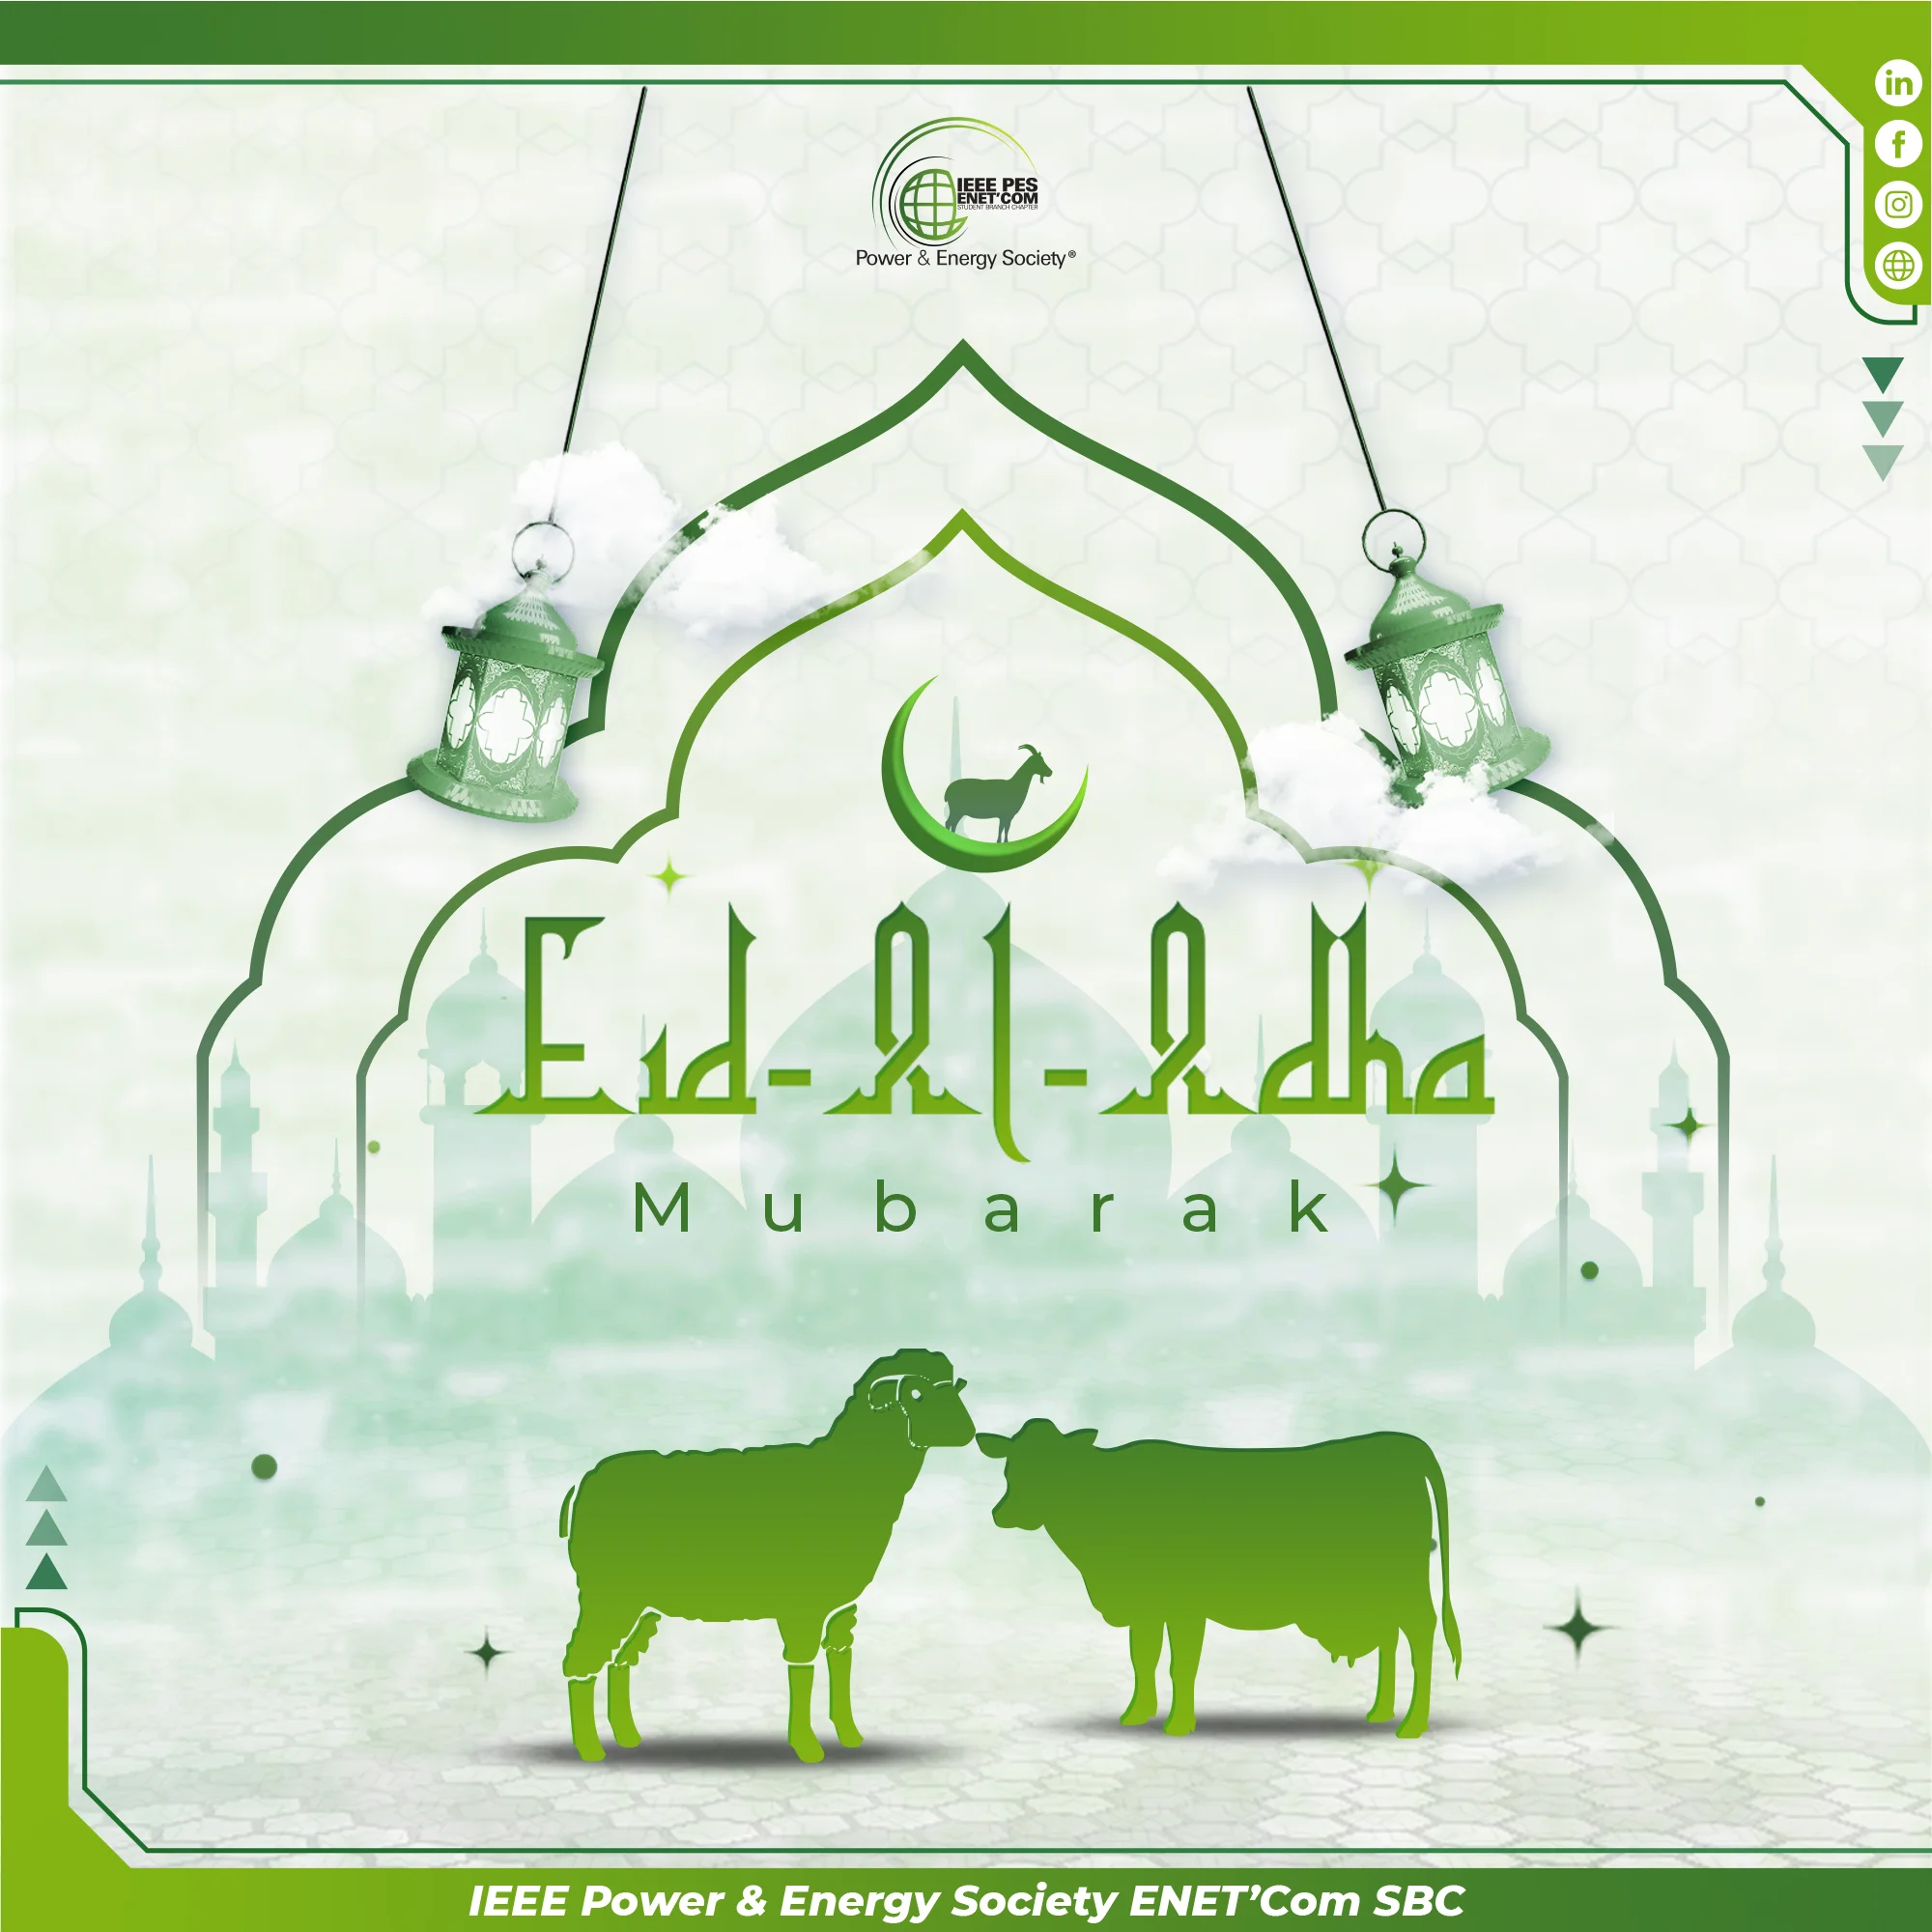
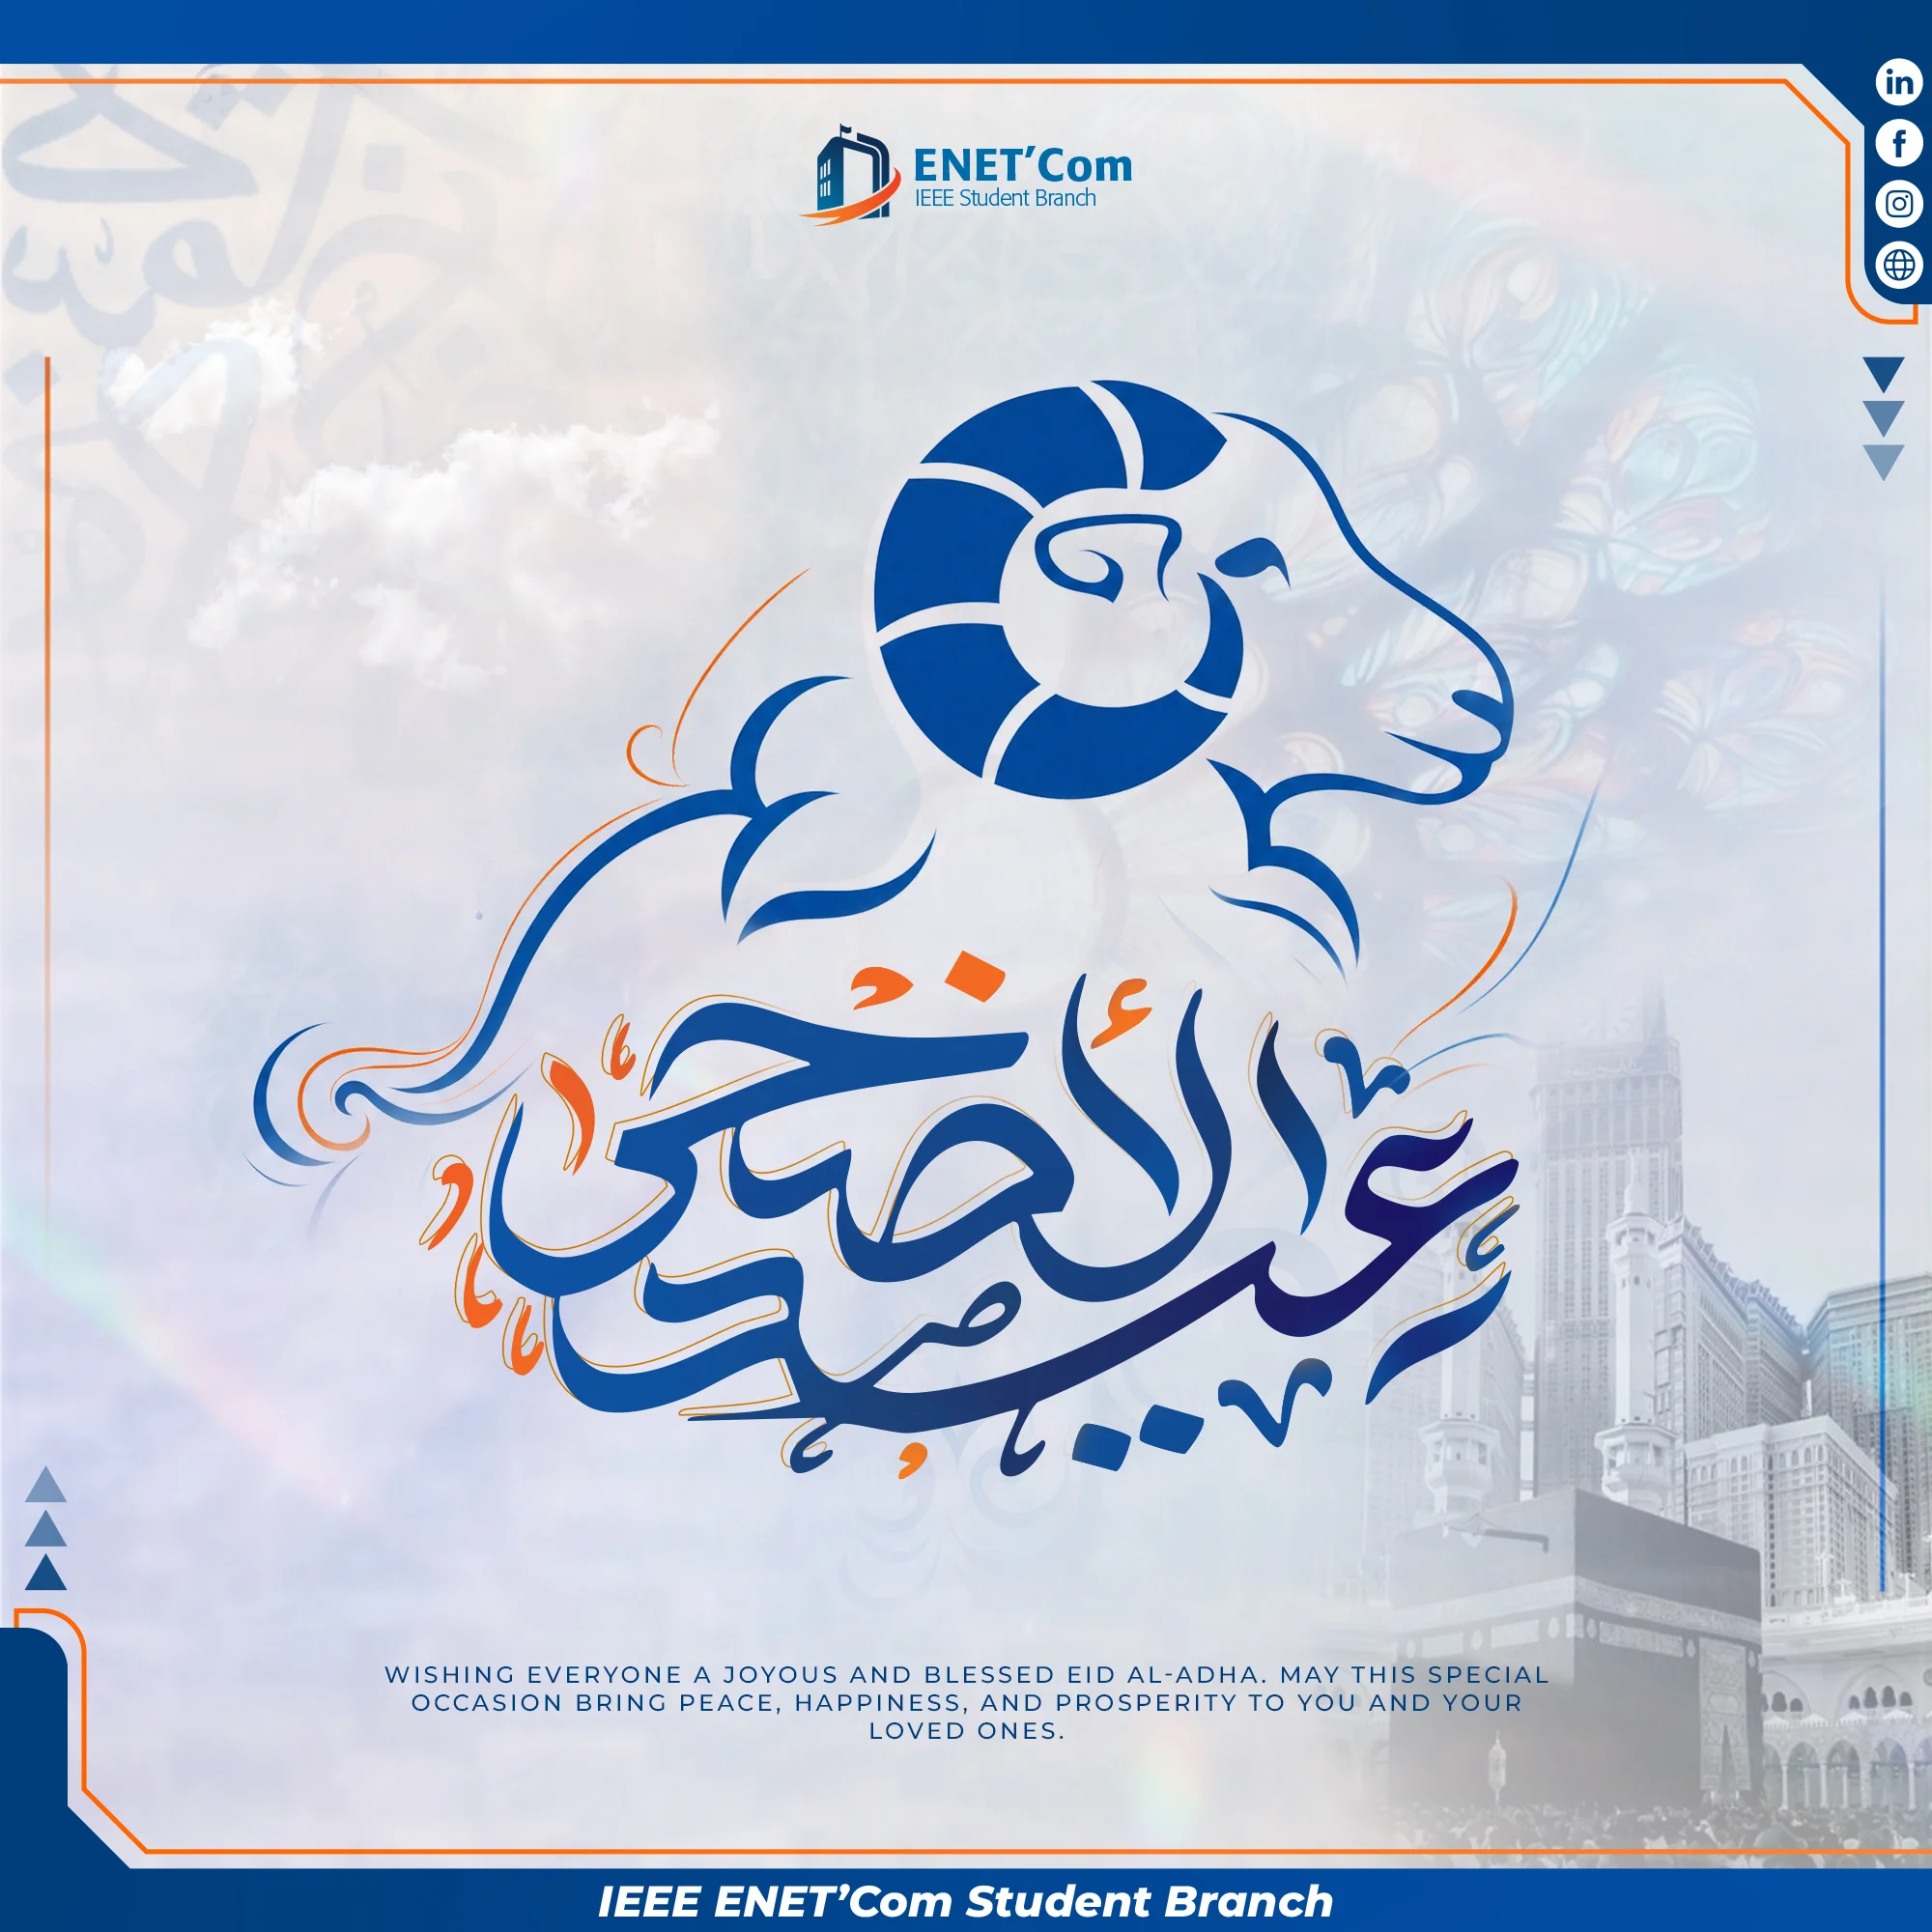
chore(artworks): update artworks page, convert new images to webp, remove deprecated entries

diff --git a/assets/js/data.js b/assets/js/data.js
@@ -273,45 +273,30 @@ const MAG_DATA = {
   ],
 
   artworks: [
+    { image: "assets/images/artworks/1st Session Benefits.webp", title: "1st Session Benefits", year: "IEEE IES Tunisia Section Chapter-PES" },
+    { image: "assets/images/artworks/2nd Session Benefits.webp", title: "2nd Session Benefits", year: "IEEE IES Tunisia Section Chapter-PES" },
     { image: "assets/images/artworks/1st post IES DAY.webp", title: "IES DAY 1st Post", year: "IEEE IES Tunisia Section Chapter-PES" },
-    { image: "assets/images/artworks/9-avril.webp", title: "Martyrs' Day", year: "IEEE ENETCOM SB" },
     { image: "assets/images/artworks/Achievement IES.webp", title: "IES Achievement", year: "IEEE IES Tunisia Section Chapter-PES" },
     { image: "assets/images/artworks/Achievement PES.webp", title: "PES Achievement", year: "IEEE IES Tunisia Section Chapter-PES" },
     { image: "assets/images/artworks/Arduino Workshop.webp", title: "Arduino Workshop", year: "IEEE IES Tunisia Section Chapter-PES" },
-    { image: "assets/images/artworks/Eid al Adhha.webp", title: "Eid al Adhha", year: "IEEE ENETCOM SB" },
-    { image: "assets/images/artworks/Eid fetr.webp", title: "Eid al Fitr", year: "IEEE ENETCOM SB" },
-    { image: "assets/images/artworks/HAPPY NEW YEAR.webp", title: "Happy New Year", year: "IEEE ENETCOM SB" },
+    { image: "assets/images/artworks/ElectrosparkPlanning.webp", title: "Electrospark Planning", year: "IEEE IES Tunisia Section Chapter-PES" },
     { image: "assets/images/artworks/Happy IES DAY.webp", title: "Happy IES Day", year: "IEEE IES Tunisia Section Chapter-PES" },
-    { image: "assets/images/artworks/PES BoardPromo.webp", title: "PES Board Promo", year: "IEEE IES Tunisia Section Chapter-PES" },
-    { image: "assets/images/artworks/In person Session1.webp", title: "In-Person Session", year: "IEEE IES Tunisia Section Chapter-PES" },
     { image: "assets/images/artworks/Teaser Electrospark.webp", title: "Electrospark Teaser", year: "IEEE IES Tunisia Section Chapter-PES" },
-    { image: "assets/images/artworks/Artboard 11.webp", title: "Artboard 11", year: "Design Work" },
-    { image: "assets/images/artworks/Artboard 12.webp", title: "Artboard 12", year: "Design Work" },
-    { image: "assets/images/artworks/Artboard 13.webp", title: "Artboard 13", year: "Design Work" },
-    { image: "assets/images/artworks/Artboard 2.webp", title: "Artboard 2", year: "Design Work" },
-    { image: "assets/images/artworks/Artboard 3.webp", title: "Artboard 3", year: "Design Work" },
-    { image: "assets/images/artworks/Artboard 4.webp", title: "Artboard 4", year: "Design Work" },
-    { image: "assets/images/artworks/Artboard 5.webp", title: "Artboard 5", year: "Design Work" },
-    { image: "assets/images/artworks/Artboard 6.webp", title: "Artboard 6", year: "Design Work" },
-    { image: "assets/images/artworks/Artboard 7.webp", title: "Artboard 7", year: "Design Work" },
-    { image: "assets/images/artworks/Artboard 9.webp", title: "Artboard 9", year: "Design Work" },
-    { image: "assets/images/artworks/BootcampMejda.webp", title: "BootcampMejda", year: "Design Work" },
-    { image: "assets/images/artworks/BootcampRoadmap.webp", title: "BootcampRoadmap", year: "Design Work" },
+    { image: "assets/images/artworks/Crescent Celebration.webp", title: "Crescent Celebration", year: "IEEE ENETCOM SB" },
+    { image: "assets/images/artworks/Discount Membership.webp", title: "Discount Membership", year: "IEEE ENETCOM SB" },
+    { image: "assets/images/artworks/EID fitr.webp", title: "Eid al Fitr", year: "IEEE ENETCOM SB" },
+    { image: "assets/images/artworks/Eid al Adhha.webp", title: "Eid al Adhha", year: "IEEE ENETCOM SB" },
+    { image: "assets/images/artworks/HAPPY NEW YEAR.webp", title: "Happy New Year", year: "IEEE ENETCOM SB" },
+    { image: "assets/images/artworks/Independence Day.webp", title: "Independence Day", year: "IEEE ENETCOM SB" },
+    { image: "assets/images/artworks/Labour Day.webp", title: "Labour Day", year: "IEEE ENETCOM SB" },
+    { image: "assets/images/artworks/Martyrs'Day.webp", title: "Martyrs' Day", year: "IEEE ENETCOM SB" },
+    { image: "assets/images/artworks/ramadhan.webp", title: "Ramadan Celebration", year: "IEEE ENETCOM SB" },
     { image: "assets/images/artworks/HAPPY IEEE DAY 2025.webp", title: "HAPPY IEEE DAY 2025", year: "Design Work" },
-    { image: "assets/images/artworks/IEEE DAY First Session.webp", title: "IEEE DAY First Session", year: "Design Work" },
-    { image: "assets/images/artworks/IEEE DAY Second Session.webp", title: "IEEE DAY Second Session", year: "Design Work" },
     { image: "assets/images/artworks/IES DAY Industrial Visit.webp", title: "IES DAY Industrial Visit", year: "Design Work" },
     { image: "assets/images/artworks/IES DAY KickOff Event Planning1.webp", title: "IES DAY KickOff Event Planning1", year: "Design Work" },
     { image: "assets/images/artworks/IES DAY KickOff Event Planning2.webp", title: "IES DAY KickOff Event Planning2", year: "Design Work" },
     { image: "assets/images/artworks/ies-cover.webp", title: "ies-cover", year: "Design Work" },
-    { image: "assets/images/artworks/Inperson Session2.webp", title: "Inperson Session2", year: "Design Work" },
-    { image: "assets/images/artworks/OnlineSession IESDAY.webp", title: "OnlineSession IESDAY", year: "Design Work" },
-    { image: "assets/images/artworks/PES BoardPromo-Adam.webp", title: "PES BoardPromo-Adam", year: "Design Work" },
-    { image: "assets/images/artworks/PES BoardPromo-Ayoub.webp", title: "PES BoardPromo-Ayoub", year: "Design Work" },
-    { image: "assets/images/artworks/PES BoardPromo-Fatma.webp", title: "PES BoardPromo-Fatma", year: "Design Work" },
-    { image: "assets/images/artworks/PES BoardPromo-Maram.webp", title: "PES BoardPromo-Maram", year: "Design Work" },
-    { image: "assets/images/artworks/PES BoardPromo-Yasmine.webp", title: "PES BoardPromo-Yasmine", year: "Design Work" },
-    { image: "assets/images/artworks/plan.webp", title: "plan", year: "Design Work" },
+    { image: "assets/images/artworks/job connect Trial.webp", title: "Job Connect Trial", year: "Design Work" }
   ],
 
   videos: [